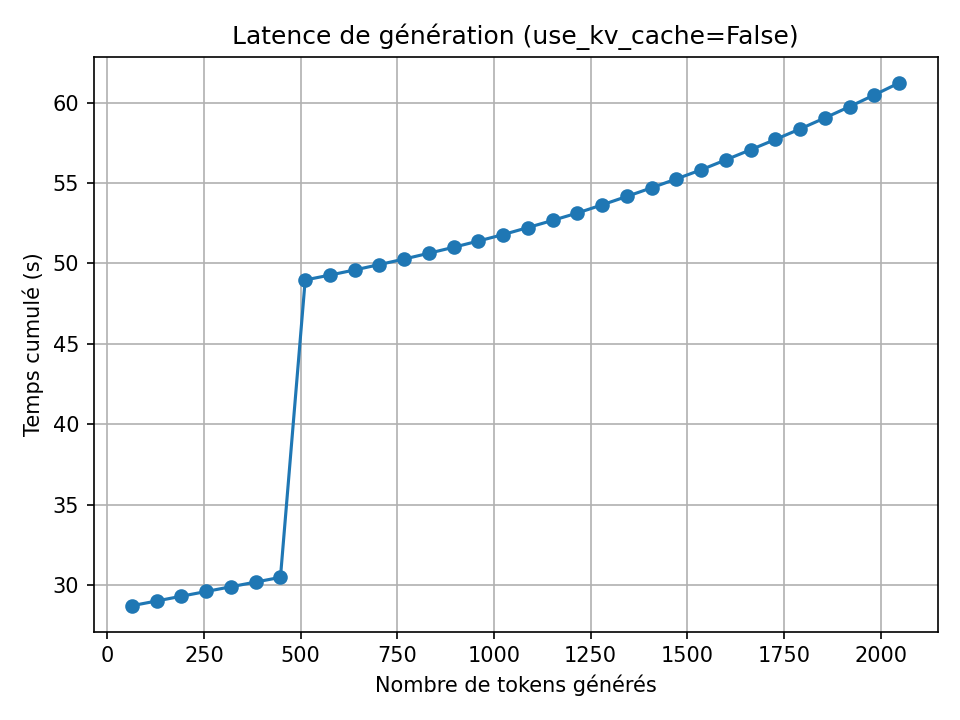
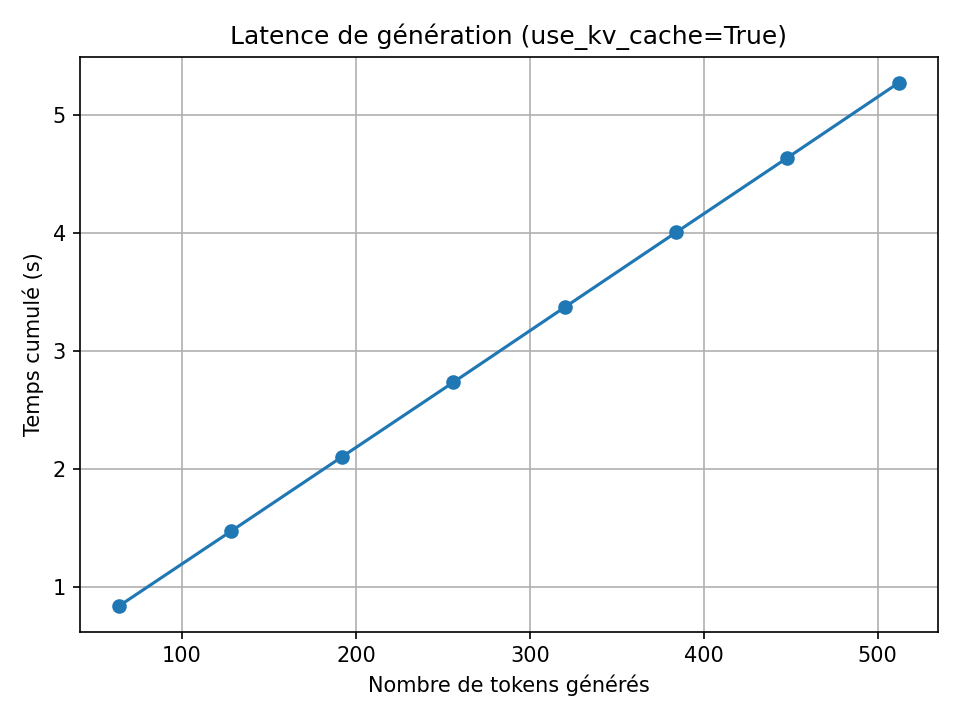
correction initialisation + scheduler + autres

diff --git a/model.py b/model.py
@@ -3,9 +3,18 @@
 import torch
 import torch.nn as nn
 import torch.nn.functional as F
+import math
 from typing import Optional 
 
 from decoder import DecoderGQALayer, RMSNorm, DecoderGQALayerDense
+
+def _init_weights(module: nn.Module, std: float = 0.02):
+    if isinstance(module, nn.Linear):
+        nn.init.normal_(module.weight, mean=0.0, std=std)
+        if module.bias is not None:
+            nn.init.zeros_(module.bias)
+    elif isinstance(module, nn.Embedding):
+        nn.init.normal_(module.weight, mean=0.0, std=std)
 
 
 class DecoderOnlyLM(nn.Module):
@@ -26,6 +35,7 @@ class DecoderOnlyLM(nn.Module):
       tie_embeddings    : si True, lm_head partage les poids avec l'embedding
     """
 
+
     def __init__(
         self,
         vocab_size: int,
@@ -43,6 +53,7 @@ class DecoderOnlyLM(nn.Module):
         self.emb_dim = emb_dim
         self.n_layers = n_layers
         self.num_groups = num_groups
+        self.tie_embeddings = tie_embeddings
 
         # Embedding de tokens
         self.tok_emb = nn.Embedding(vocab_size, emb_dim)
@@ -68,8 +79,12 @@ class DecoderOnlyLM(nn.Module):
         self.lm_head = nn.Linear(emb_dim, vocab_size, bias=False)
 
         # Option : tie embeddings (comme GPT / LLaMA)
-        if tie_embeddings:
+        if self.tie_embeddings:
             self.lm_head.weight = self.tok_emb.weight
+
+        self.apply(lambda m: _init_weights(m, std=0.02))
+
+    
 
     # ------------------------------------------------------------------ #
     #  FORWARD : passe standard, avec ou sans KV cache
@@ -102,6 +117,7 @@ class DecoderOnlyLM(nn.Module):
 
         # Embedding [B, L, D]
         x = self.tok_emb(input_ids)
+        emb_dim = x.shape[-1]
 
         load_balancing_losses = []
 
@@ -128,6 +144,9 @@ class DecoderOnlyLM(nn.Module):
         # Norm finale + tête de langage
         x = self.norm_out(x)           # [B, L, D]
         logits = self.lm_head(x)       # [B, L, vocab_size]
+
+        if(self.tie_embeddings):
+            logits *= 1 / math.sqrt(emb_dim)
 
         if load_balancing_losses:
             load_balancing_loss = torch.stack(load_balancing_losses).mean()

diff --git a/benchmark_sampling.py b/benchmark_sampling.py
@@ -15,6 +15,8 @@ import matplotlib.pyplot as plt
 from model import DecoderOnlyLM
 
 
+
+
 # ------------------------------------------------------------------- #
 #  CONFIG
 # ------------------------------------------------------------------- #
@@ -34,11 +36,11 @@ class BenchmarkConfig:
     gpt2_model_name: str = "gpt2"
 
     # --- sampling ---
-    max_new_tokens: int = 4096
+    max_new_tokens: int = 512
     temperature: float = 1.0
     top_k: Optional[int] = 50
     top_p: Optional[float] = 0.9
-    use_kv_cache: bool = False
+    use_kv_cache: bool = True
 
     # prompt
     prompt: str = "Once upon a time"
@@ -48,7 +50,7 @@ class BenchmarkConfig:
 
     # ckpt
     load_ckpt: bool = False
-    ckpt_path: str = "model_ckpt.pt"
+    ckpt_path: str = "model_train.ckpt"
 
     # device: "cuda", "cpu" ou "auto"
     device: str = "cuda"
@@ -303,7 +305,6 @@ def main():
     )
 
     # --- Décodage du texte (optionnel, juste pour vérif) ---
-    '''
     try:
         gen_text = tokenizer.decode(generated_ids[0], skip_special_tokens=True)
         print("\n[GENERATION SAMPLE]")
@@ -311,7 +312,6 @@ def main():
         print()
     except Exception as e:
         print(f"[WARN] Erreur lors du decode du texte : {e}")
-    '''
 
     print(f"\n[TOTAL]")
     print(f"  Tokens générés : {total_new}")

diff --git a/gqa.py b/gqa.py
@@ -151,7 +151,7 @@ class GroupRopeAttention(nn.Module):
 
         # scores: [B, num_heads, Lq, Lk]
         if(self.qk_norm):
-            cores = torch.einsum('bgld,bgjd->bglj', Qs, K)
+            scores = torch.einsum('bgld,bgjd->bglj', Qs, K)
         else:
             scores = torch.einsum('bgld,bgjd->bglj', Qs, K) / math.sqrt(self.hd)
 

diff --git a/train.py b/train.py
@@ -54,7 +54,7 @@ class TrainConfig:
     eval_interval: int = 200
     log_interval: int = 20
 
-    learning_rate: float = 1e-4
+    learning_rate: float = 3e-4
     min_lr: float = 1e-5  
     use_cosine_scheduler: bool = True
     weight_decay: float = 0.1
